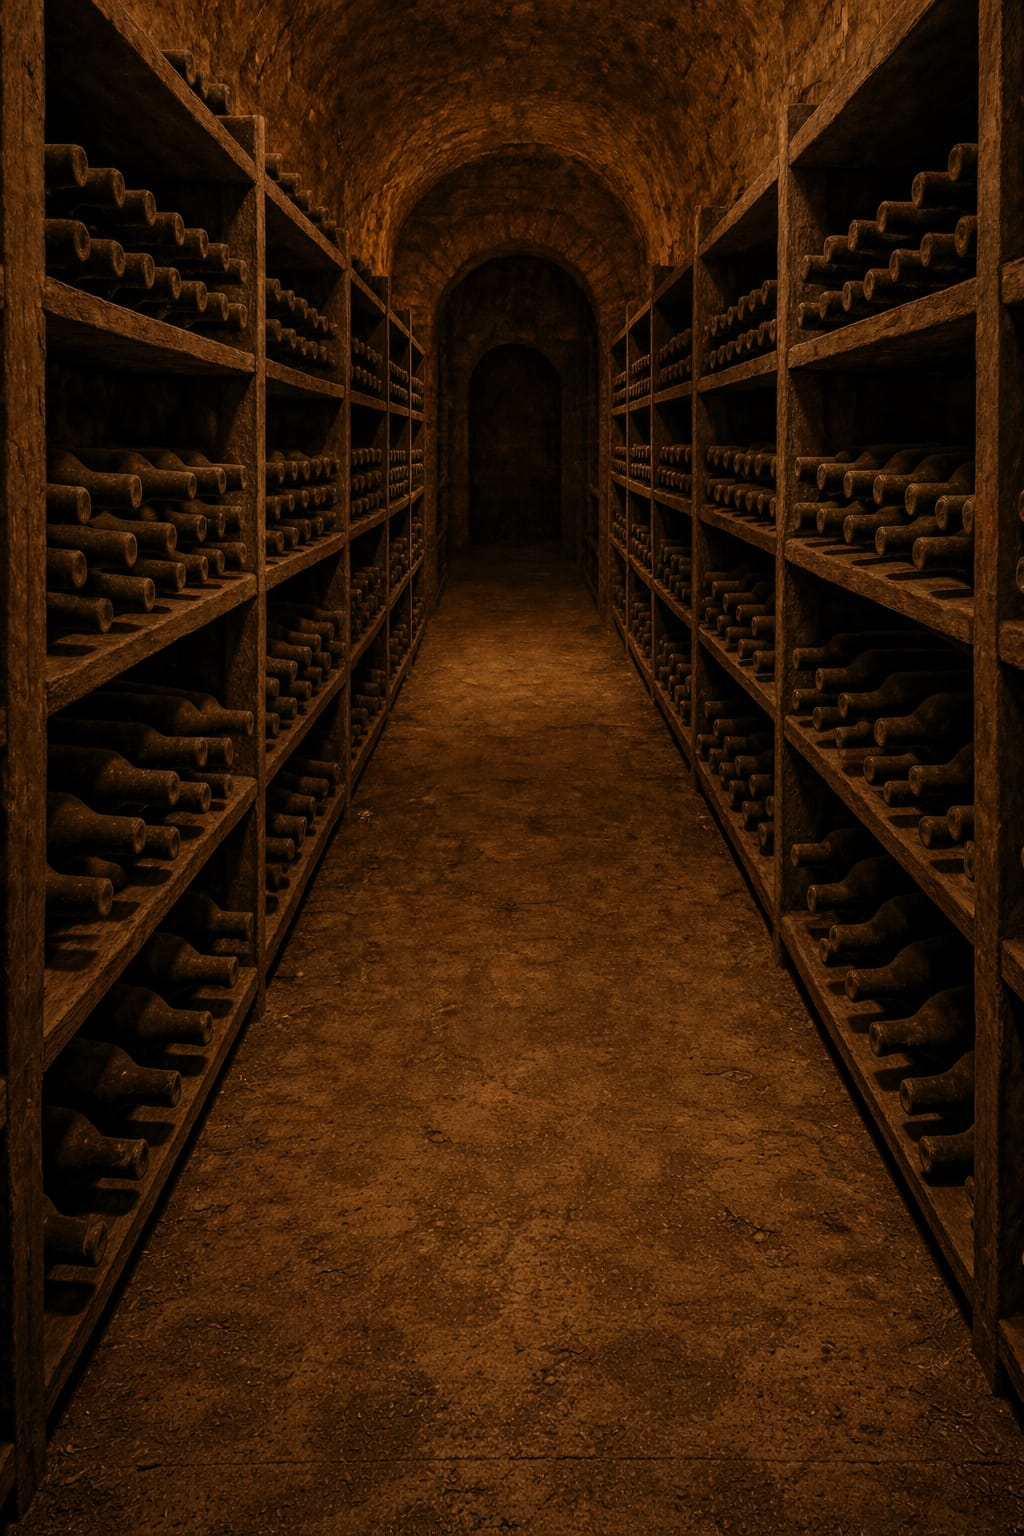
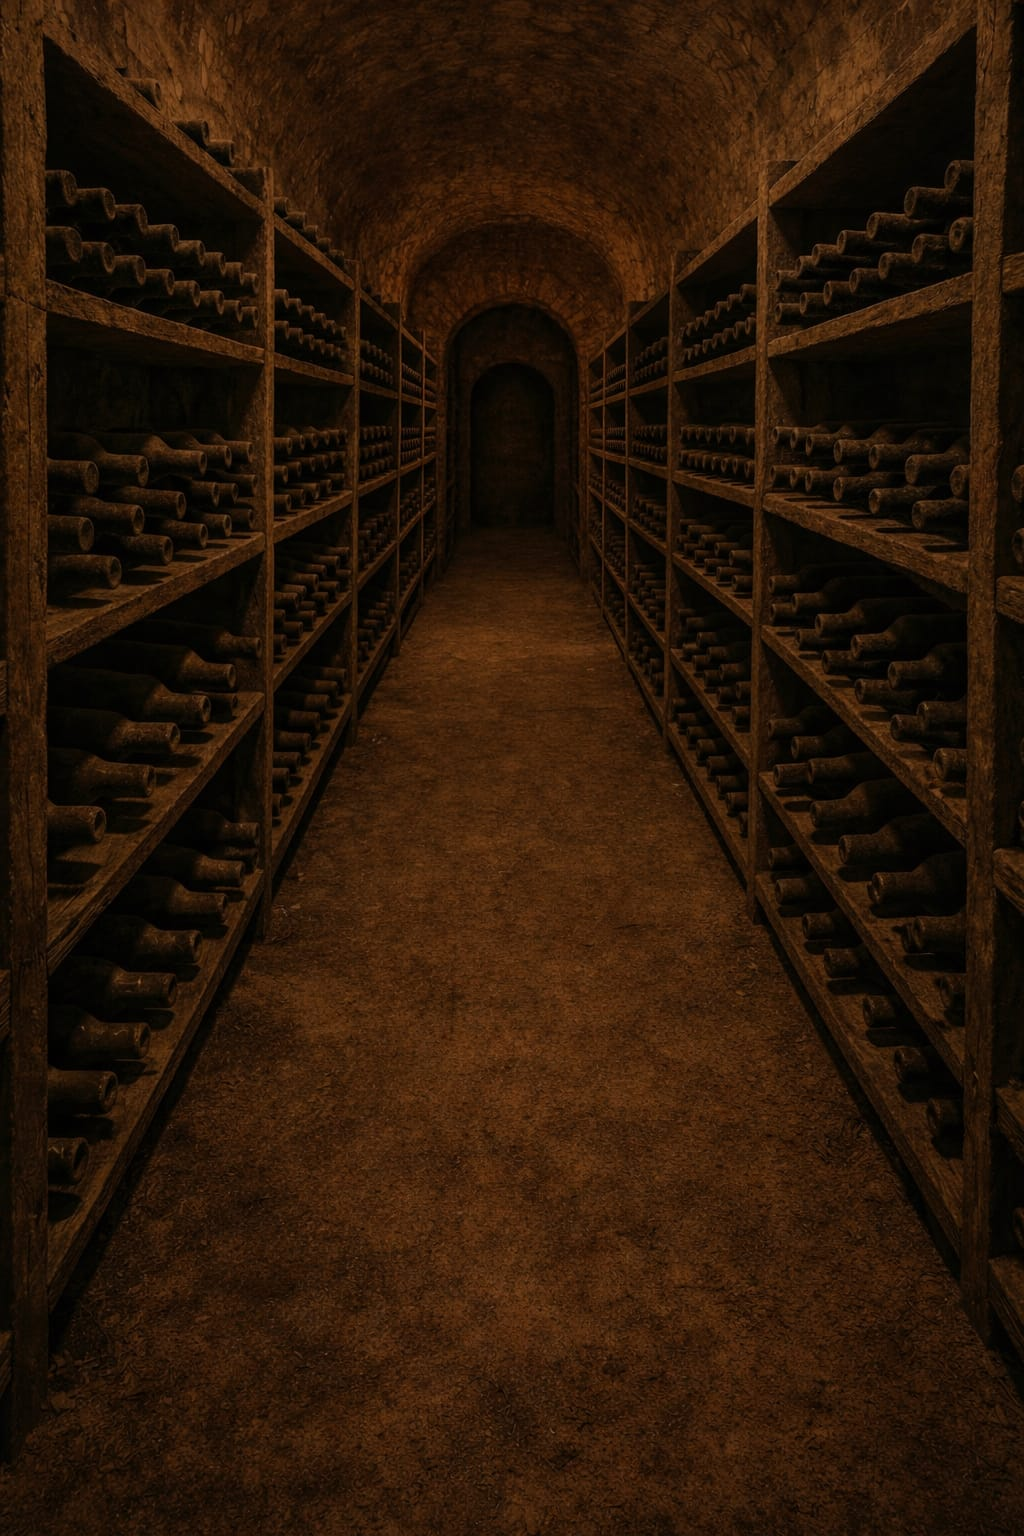
acrescentado foto somente pro mobile

diff --git a/css/responsive.css b/css/responsive.css
@@ -46,7 +46,12 @@ html, body {
     
 
     /* --- Hero --- */
-    .hero { min-height: 50vh; }
+    .hero {
+        min-height: 100svh; 
+        background-image: url("../fotos/banners/fundo-mobile.jpeg");
+        background-size: cover;
+        background-position: center;
+    }
     .hero-title h1 { font-size: 2.5rem; } /* Ajuste de tamanho do título */
 
     
@@ -109,7 +114,7 @@ height: 10% !important;
     
 
     /* --- Hero --- */
-    .hero { min-height: 60vh; background-position: center; }
+    .hero { min-height: 100vh; background-position: center; }
     .hero-title { flex-direction: column; }
     .hero-title h1 { font-size: 1.8rem; text-align: center; }
     .hero-logo { width: 50px; height: auto; margin: 10px auto 0; display: block; }
